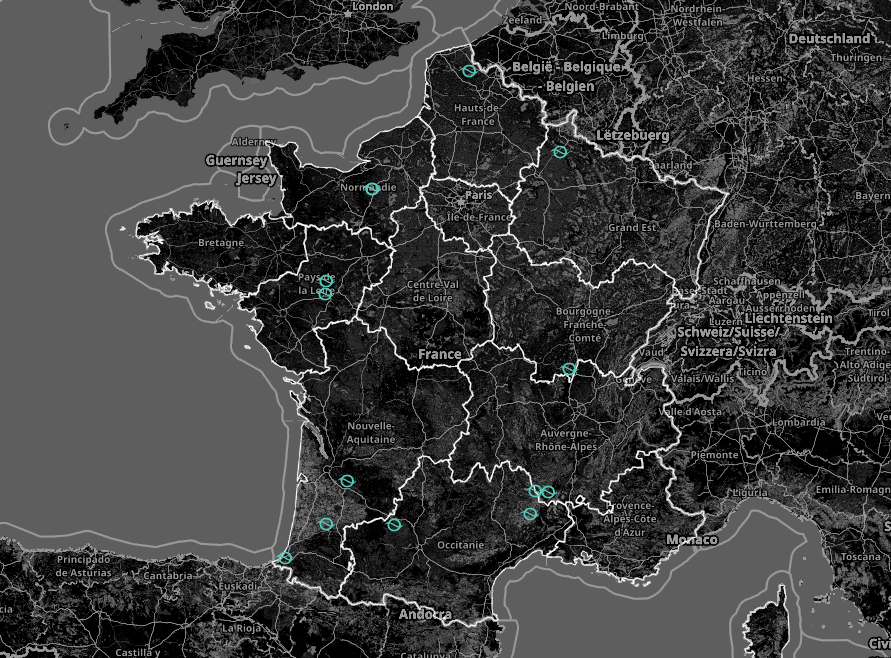
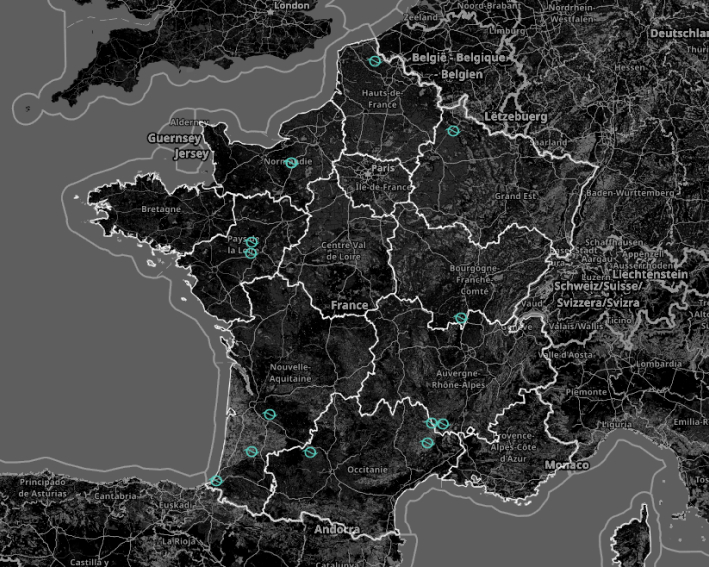
lundi

diff --git a/public/asset/js/pingo.js b/public/asset/js/pingo.js
@@ -1,6 +1,10 @@
 let geojsonReg = null;
-console.log(tabData);
- fetch('./region.geoJSON')
+
+let htmlHeight = document.querySelector('html').offsetHeight;
+let mappy = document.getElementById('map');
+ mappy.style.height = htmlHeight - 250 + 'px';
+
+ fetch('./asset/js/region.geoJSON')
 .then((response) => {
     return response.json();
 })
@@ -10,8 +14,6 @@ console.log(tabData);
 })
 
 function launchMap(){
-
-    
 
     // On dessine le polygone
     let geojsonLayerReg = L.geoJSON(geojsonReg, {
@@ -31,12 +33,12 @@ function launchMap(){
     L.tileLayer('https://{s}.tile.openstreetmap.fr/hot/{z}/{x}/{y}.png', {
         attribution: '<a href="https://www.openstreetmap.org/copyright">OpenStreetMap</a> contributors',
         className: 'map-tiles',
-        /* minZoom: 6,
-        maxZoom: 6 */
+         minZoom: 1,
+        maxZoom: 20
     }).addTo(map);
 
     var warningOrgIcon = L.icon({
-        iconUrl: '../img/IMG_PINGO/logoO.svg',
+        iconUrl: './asset/img/IMG_PINGO/logoO.svg',
         shadowUrl: '',
     
         iconSize:     [20, 20], // size of the icon
@@ -50,9 +52,11 @@ function launchMap(){
      tabData.forEach((v, k) => {
         console.log(v);
         window['marker' + k]  = L.marker([v[4], v[5]], {icon: warningOrgIcon}).addTo(map);
-        window['marker' + k].bindPopup("<h1>"+v[0]+"</h1><h2>"+v[1]+"</h2><h3>"+v[2]+"</h3> <img src='../img/IMG_PINGO/"+v[6]+"'/>");
+        window['marker' + k].bindPopup("<h1>"+v[0]+"</h1><h2>"+v[1]+"Mètres</h2><h3>"+v[3]+"</h3><h3>"+v[2]+"</h3> <img src='../asset/img/IMG_PINGO/"+v[6]+"'/>");
      });
     }
+
+    
 
     
 

diff --git a/public/asset/js/episodes.js b/public/asset/js/episodes.js
@@ -1,0 +1,41 @@
+let sliders = document.querySelectorAll('.slider');
+
+sliders.forEach(function (slider){
+    let sliderRange = slider.querySelector('.slider__range');
+    let sliderBefore = slider.querySelector('.slider__before');
+    let sliderSeparator = slider.querySelector('.slider__separator');
+
+    function updapteSliderPosition(){
+        console.log(sliderBefore);
+        
+        sliderBefore.style = `width:${sliderRange.value}%`;
+        sliderSeparator.style = `left:${sliderRange.value}%`; 
+        
+    }
+
+
+sliderRange.addEventListener('input',updapteSliderPosition);
+
+let isDragging = false;
+
+sliderSeparator.addEventListener('mousedown', function () {
+    isDragging = true;
+
+});
+
+document.addEventListener('mouseup', function (){
+    isDragging = false;
+
+});
+
+document.addEventListener('mousemove', function (e){
+    if (isDragging){
+        let sliderRect = slider.getBoundingClientRect()
+        let newWidth = (e.clientX - sliderRect.left)/
+        sliderRect.width * 100;
+        sliderRange.value = newWidth;
+        updapteSliderPosition();
+    }
+
+});
+});

diff --git a/public/asset/js/home.js b/public/asset/js/home.js
@@ -1,4 +1,4 @@
-/* ---------Anim SVG----------- */
+/* ---------Anim svg----------- */
 document.addEventListener('DOMContentLoaded', (e) => {
 
     let prevTime = 0;
@@ -39,12 +39,11 @@ document.addEventListener('DOMContentLoaded', (e) => {
 let closeBtn = document.getElementById('closeCookie');
 
 
-closeBtn.addEventListener('click', close);
-
 function close() {
-
-    let cookieBar = document.getElementById('barCookies');
-
+    
+    let cookieBar = document.getElementById('cookiesBar');
+    
     cookieBar.style.display = 'none';
-
+    
 }
+closeBtn.addEventListener('click', close);

diff --git a/public/asset/css/pingo.css b/public/asset/css/pingo.css
@@ -2,15 +2,31 @@
     margin : 0;
     padding: 0;
   }
+
+  html,
+  body {
+    height: 100%;
+    text-align: center;
+    place-items: center;
+    background-color: #01131B;
+    color: #F9FBFF;
+  }
+  
+  
+
+
   h1, h2, h3{
     font-size: 1rem;
   }
   
-  #map {
-    height: 700px;
-    width: 100%;
-    margin: auto;
-    }
+#map {
+  height: 675px;
+  width: 100%;
+}
+#margtop {
+  height: 96px;
+  background-color: #01131B;
+}
   
     :root {
       --map-tiles-filter: brightness(0.65) invert(10) contrast(5) hue-rotate(0deg) saturate(0) brightness(0.6);

diff --git a/public/asset/css/hexago.css b/public/asset/css/hexago.css
@@ -156,7 +156,7 @@ body {
 
 #map {
   height: 675px;
-  width: 100%;
+  width: 100%; 
 }
 
 .leaflet-control-attribution {

diff --git a/public/asset/css/cartes.css b/public/asset/css/cartes.css
@@ -41,6 +41,7 @@
 
 .imgcartes {
     width: 100%;
+    height:auto;
     
 }
 
